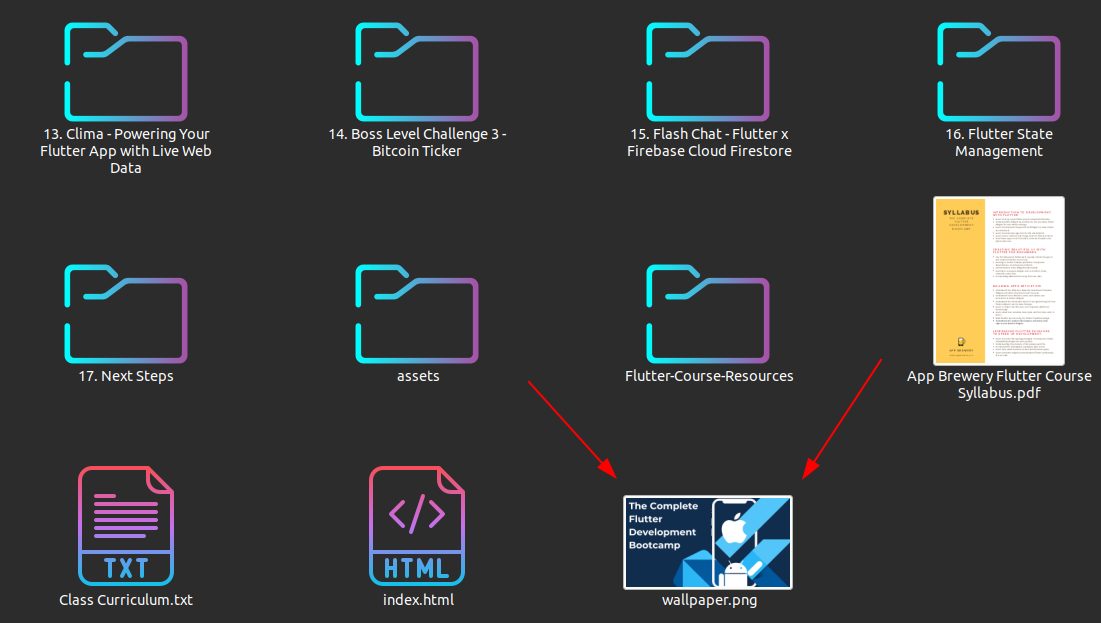
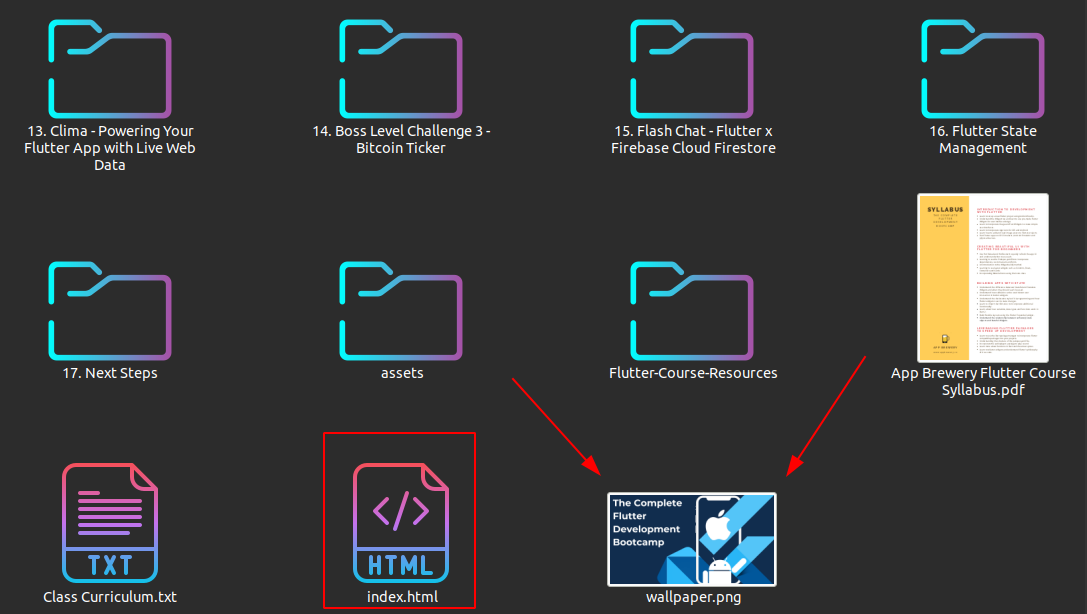
added more info about the project

diff --git a/README.md b/README.md
@@ -16,7 +16,7 @@ The purpose of this project is to access your `videos`, `subtitles` and `html fi
 &nbsp;
 
 ## 🌟 How To Use It 📓
-1. `[OPTIONAL]` set a wallpaper for the course hompage 
+0. `[OPTIONAL]` set a wallpaper for the course hompage 
 
 The image can have `any name` and these extensions `".jpg", ".gif", ".png", ".tga", "jpeg"`
 
@@ -33,7 +33,9 @@ The image can have `any name` and these extensions `".jpg", ".gif", ".png", ".tg
 
         python run.py "THE_COURSE_FOLDER_PATH"`
 
-4. Enjoy. 😎
+4. You access the course again by opening `index.html` file in your web browser (see the image above) 
+
+5. Enjoy. 😎
 
 ## 🌟 Shortcuts 👨🏼💻
 ### 💁 Almost all shortcuts are the same as `Youtube`
